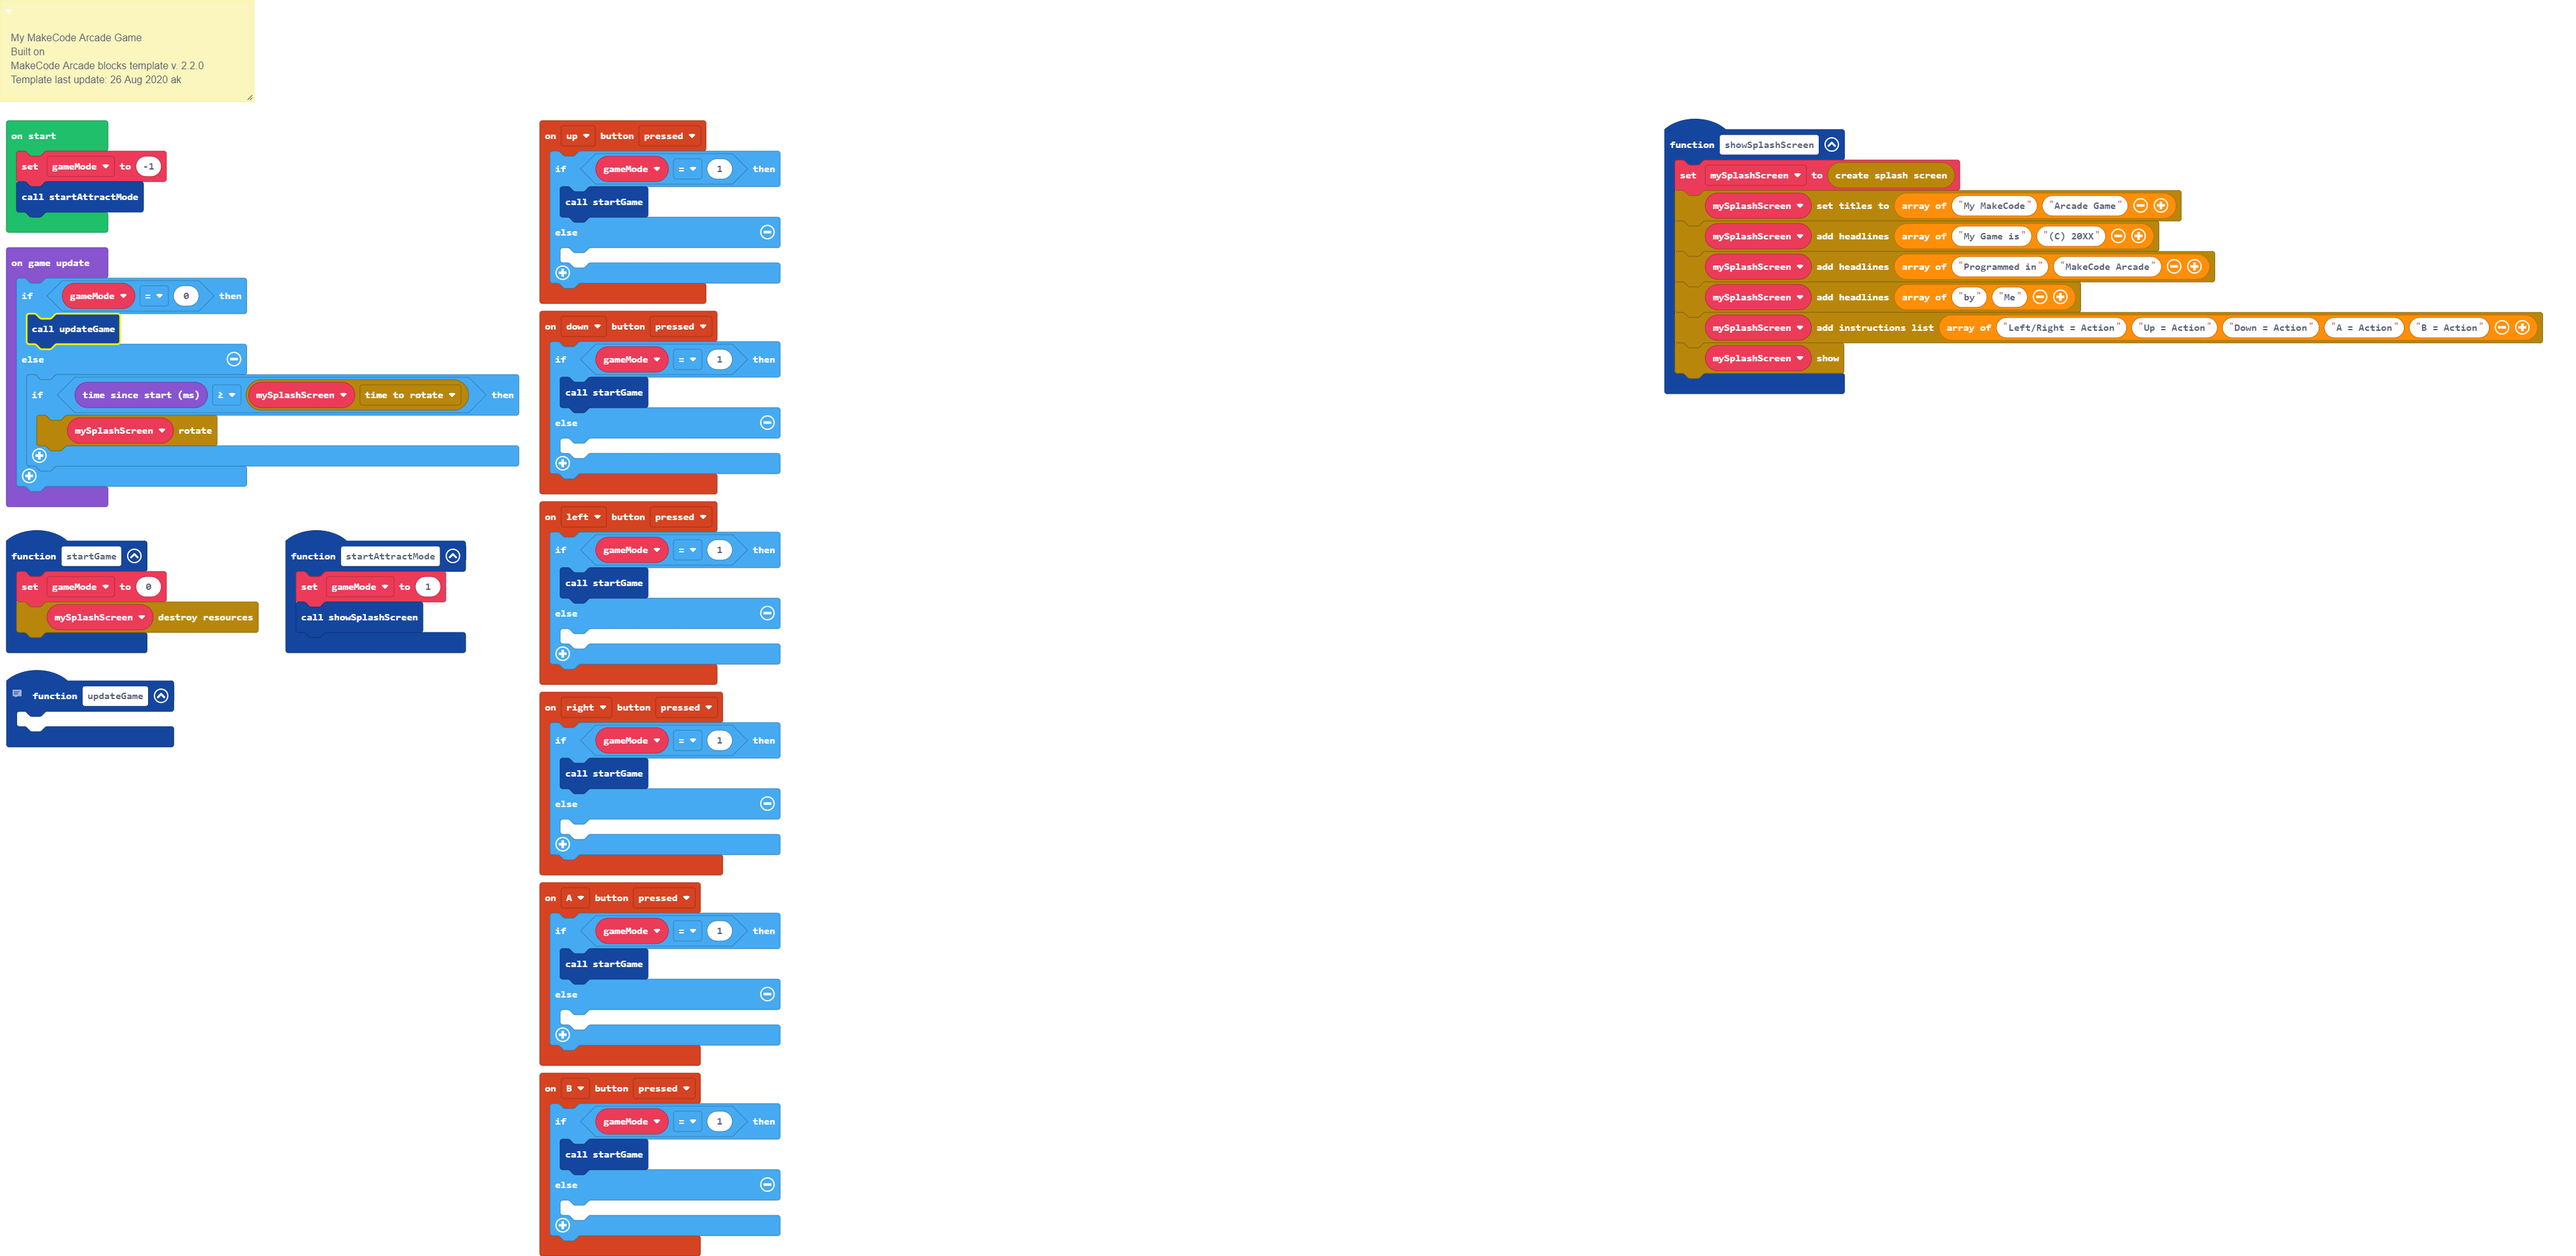
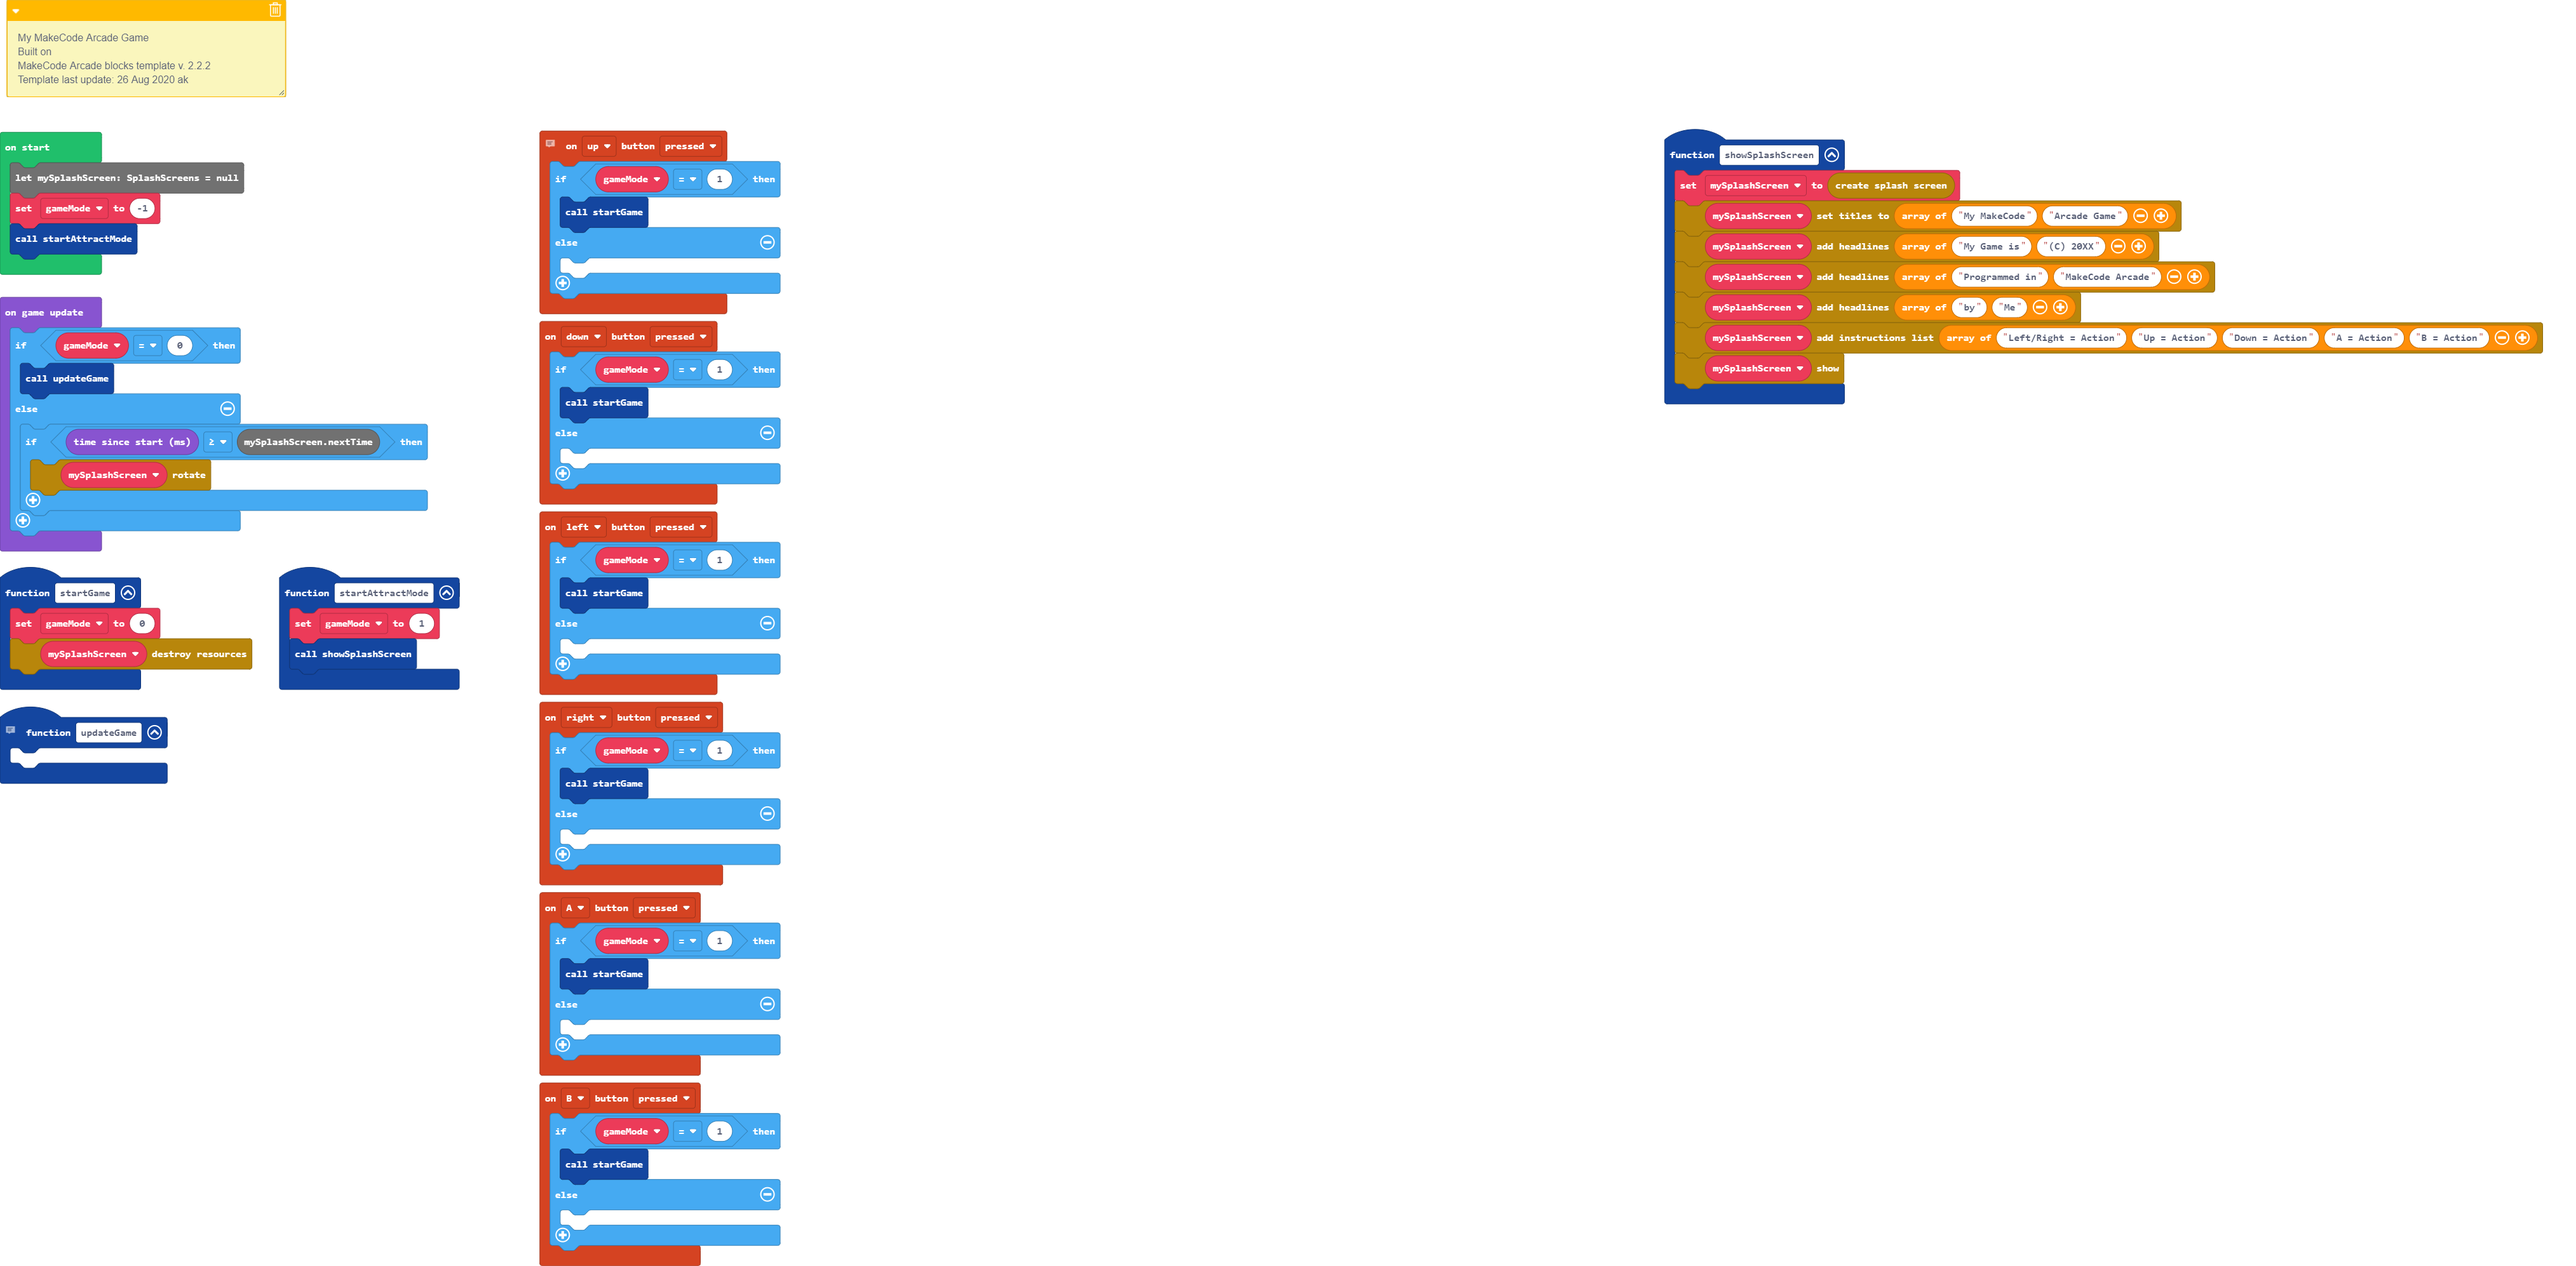
2.2.2

Changed region(s): [[0.0, 0.0, 0.3107, 0.9252], [0.6525, 0.0925, 0.9943, 0.3392]]

diff --git a/main.ts b/main.ts
@@ -3,10 +3,17 @@
  * 
  * Built on
  * 
- * MakeCode Arcade blocks template v. 2.2.0
+ * MakeCode Arcade blocks template v. 2.2.2
  * 
  * Template last update: 26 Aug 2020 ak
  */
+// My MakeCode Arcade Game
+// 
+// Built on
+// 
+// MakeCode Arcade blocks template v. 2.2.0
+// 
+// Template last update: 26 Aug 2020 ak
 controller.up.onEvent(ControllerButtonEvent.Pressed, function () {
     if (gameMode == 1) {
         startGame()
@@ -70,8 +77,8 @@ controller.down.onEvent(ControllerButtonEvent.Pressed, function () {
 function updateGame () {
 	
 }
-let mySplashScreen: SplashScreens = null
 let gameMode = 0
+let mySplashScreen: SplashScreens = null
 gameMode = -1
 startAttractMode()
 game.onUpdate(function () {
